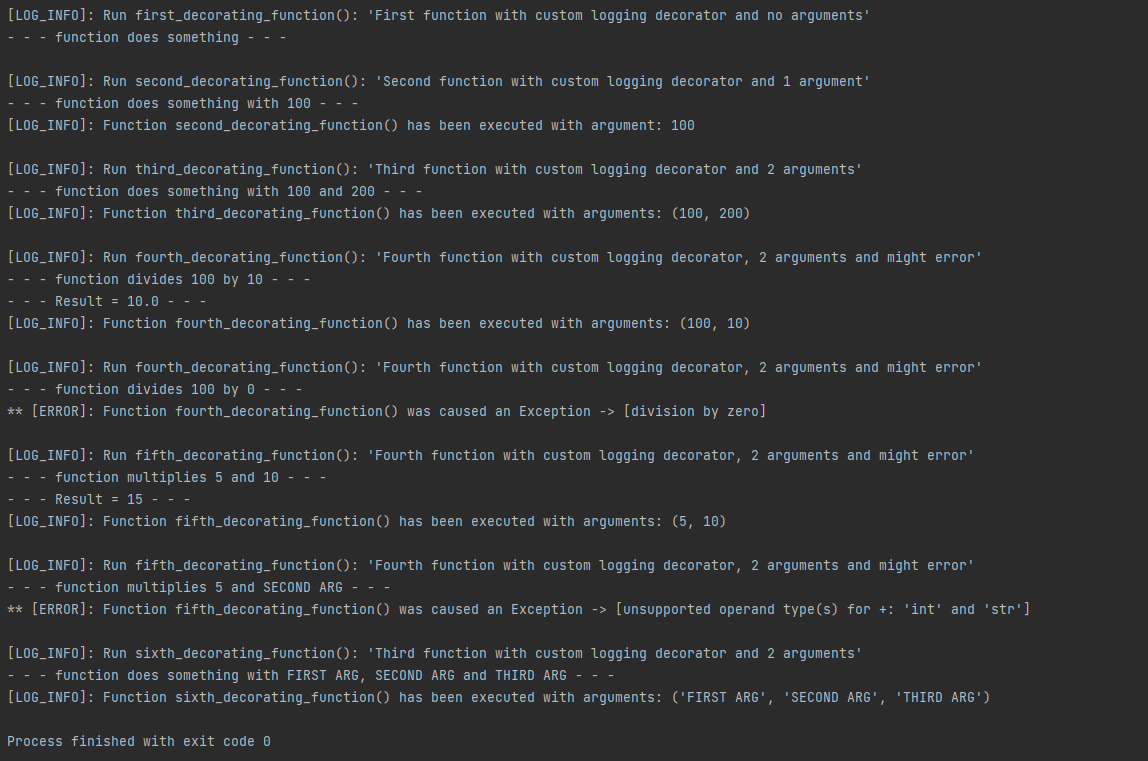
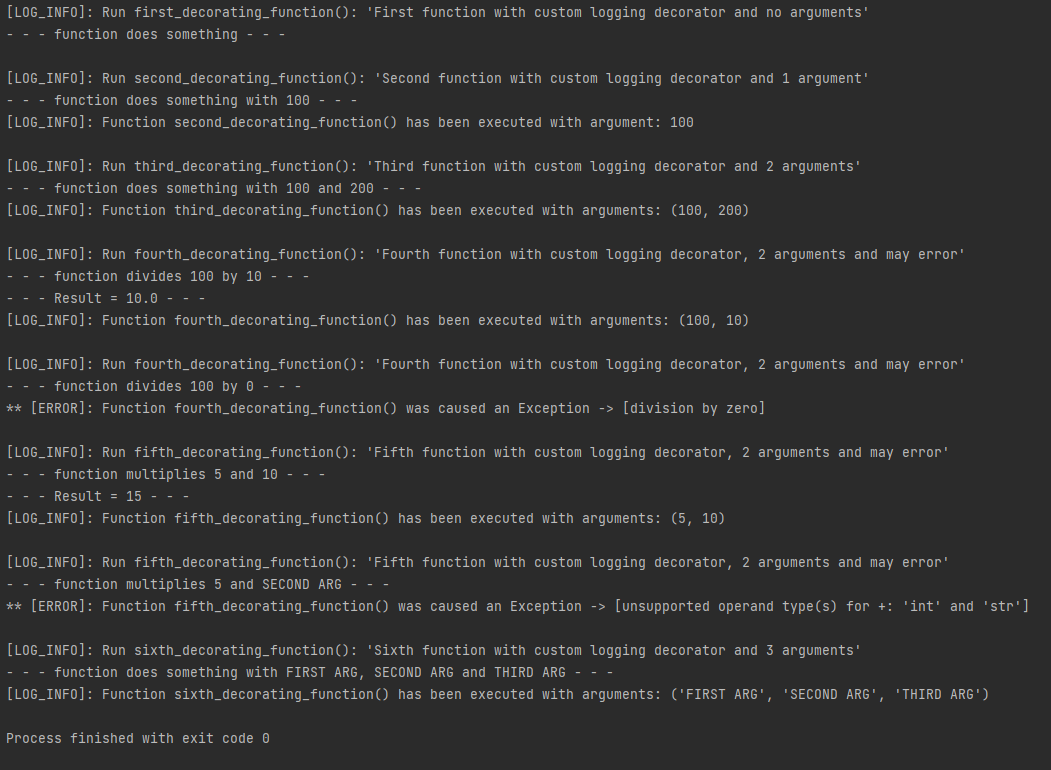
update HW10  after mistakes

diff --git a/HW_10_Unittest/HW_10_3_Decorator.py b/HW_10_Unittest/HW_10_3_Decorator.py
@@ -41,7 +41,7 @@ def third_decorating_function(arg1, arg2) -> None:
 
 @log_decorator
 def fourth_decorating_function(arg1, arg2) -> None:
-    """Fourth function with custom logging decorator, 2 arguments and might error"""
+    """Fourth function with custom logging decorator, 2 arguments and may error"""
     print(f"- - - function divides {arg1} by {arg2} - - -")
     result = arg1 / arg2
     print(f"- - - Result = {result} - - -")
@@ -49,7 +49,7 @@ def fourth_decorating_function(arg1, arg2) -> None:
 
 @log_decorator
 def fifth_decorating_function(arg1, arg2) -> None:
-    """Fourth function with custom logging decorator, 2 arguments and might error"""
+    """Fifth function with custom logging decorator, 2 arguments and may error"""
     print(f"- - - function multiplies {arg1} and {arg2} - - -")
     result = arg1 + arg2
     print(f"- - - Result = {result} - - -")
@@ -57,7 +57,7 @@ def fifth_decorating_function(arg1, arg2) -> None:
 
 @log_decorator
 def sixth_decorating_function(arg1, arg2, arg3) -> None:
-    """Third function with custom logging decorator and 2 arguments"""
+    """Sixth function with custom logging decorator and 3 arguments"""
     print(f"- - - function does something with {arg1}, {arg2} and {arg3} - - -")
 
 
